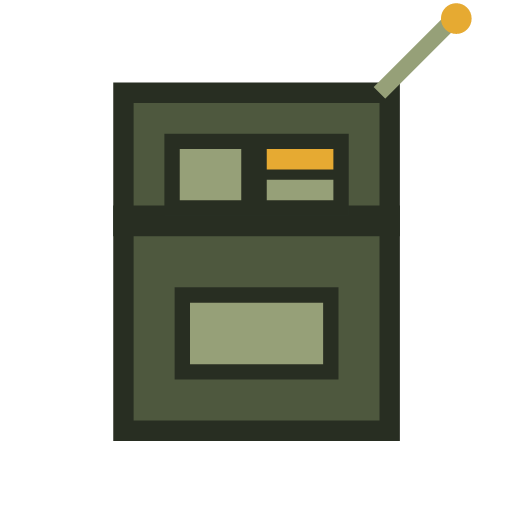
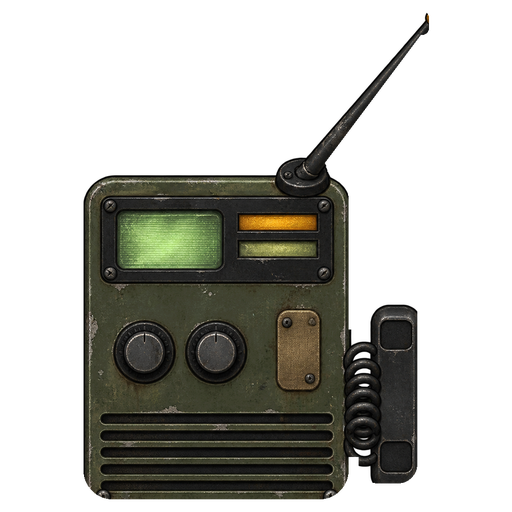
Comms radio: geometry-first art, player acquisition, armory preview
Pack (worn), icon and a radio clip variant from geometry-first ImageGen guides with retained prompts, raws and a mechanical exporter. The radio is now a player-acquirable special (advanced tier, independent and hegemony offers, placeholder weights marked), replacing the non-player declaration; lore catalog row added. Armory preview gains a radio case and a 1920x1080 contact sheet.

diff --git a/art-source/templates/comms-radio-guide.py b/art-source/templates/comms-radio-guide.py
@@ -1,0 +1,79 @@
+"""Geometry only for the forward-observer comms radio (special.comms-radio).
+
+Writes two guides under art-source/templates/. Code owns every silhouette; ImageGen reskins material
+and detail. Sprites point UP, empty space is transparent.
+
+  comms-radio-pack-guide.png   768x1000: the set as worn, seen from above on the back -- a squat
+                               rectangular pack, a buckled top flap, a coiled-cord handset clipped
+                               to its side and one whip antenna rising from the upper right corner.
+                               Drawn at the carrier layer's 0.40 x 0.52 shoulder aspect.
+  comms-radio-icon-guide.png   1024x1024: the same set as an inventory icon -- the pack standing
+                               upright, its face with a dial, two knobs and a speaker grille, the
+                               handset hanging from a coiled cord and the antenna whip.
+"""
+import math
+from pathlib import Path
+from PIL import Image, ImageDraw
+
+ROOT = Path(__file__).resolve().parents[2]
+OUT = ROOT / 'art-source/templates'
+
+
+def whip(d, base, tip, w0, w1):
+    dx, dy = tip[0] - base[0], tip[1] - base[1]
+    n = math.hypot(dx, dy)
+    px, py = -dy / n, dx / n
+    d.polygon([(base[0] + px * w0, base[1] + py * w0), (base[0] - px * w0, base[1] - py * w0),
+               (tip[0] - px * w1, tip[1] - py * w1), (tip[0] + px * w1, tip[1] + py * w1)], fill='#2a2f2c')
+    d.ellipse((tip[0] - w1 * 2, tip[1] - w1 * 2, tip[0] + w1 * 2, tip[1] + w1 * 2), fill='#c9962a')
+
+
+def pack():
+    W, H = 768, 1000
+    im = Image.new('RGBA', (W, H))
+    d = ImageDraw.Draw(im)
+    d.rounded_rectangle((100, 300, 580, 970), 60, fill='#3d4a3a')                     # pack body
+    d.rounded_rectangle((130, 330, 550, 520), 36, fill='#4f5e49')                     # top flap
+    for x in (230, 450):
+        d.rectangle((x - 22, 500, x + 22, 560), fill='#6b5a3a')                       # flap straps
+        d.rounded_rectangle((x - 30, 540, x + 30, 580), 10, fill='#2a2f2c')           # buckles
+    d.rounded_rectangle((150, 620, 530, 930), 40, fill='#46543f')                     # lower pocket
+    d.rounded_rectangle((590, 520, 660, 840), 30, fill='#2f3530')                     # handset clipped on the side
+    d.ellipse((600, 540, 650, 600), fill='#1d2220')
+    d.rectangle((100, 800, 160, 940), fill='#1d2220')                                 # strap roots
+    d.rectangle((520, 800, 580, 940), fill='#1d2220')
+    d.ellipse((440, 270, 540, 370), fill='#23282a')                                   # antenna socket
+    whip(d, (490, 320), (690, 40), 26, 11)
+    im.save(OUT / 'comms-radio-pack-guide.png')
+
+
+def icon():
+    S = 1024
+    im = Image.new('RGBA', (S, S))
+    d = ImageDraw.Draw(im)
+    d.rounded_rectangle((220, 330, 700, 930), 54, fill='#3d4a3a')                    # case
+    d.rounded_rectangle((250, 360, 670, 520), 30, fill='#2a2f2c')                    # display bezel
+    d.rounded_rectangle((276, 386, 470, 494), 14, fill='#8fa07a')                    # display
+    d.rectangle((500, 392, 640, 420), fill='#c9962a')
+    d.rectangle((500, 440, 640, 468), fill='#8fa07a')
+    for cx in (330, 460):                                                            # knobs
+        d.ellipse((cx - 56, 590, cx + 56, 702), fill='#23282a')
+        d.ellipse((cx - 34, 612, cx + 34, 680), fill='#5a6358')
+    for i in range(5):                                                               # speaker grille
+        d.rounded_rectangle((250, 760 + i * 30, 670, 774 + i * 30), 7, fill='#1d2220')
+    d.rounded_rectangle((570, 570, 650, 710), 22, fill='#6b5a3a')                    # carry strap tab
+    d.ellipse((560, 292, 660, 372), fill='#23282a')                                  # antenna socket
+    whip(d, (610, 330), (840, 40), 16, 6)
+    d.rounded_rectangle((740, 560, 830, 900), 36, fill='#2f3530')                    # handset on its cord
+    d.rounded_rectangle((756, 590, 814, 640), 16, fill='#1d2220')
+    d.rounded_rectangle((756, 800, 814, 860), 16, fill='#1d2220')
+    for i in range(6):                                                               # coiled cord
+        y = 700 + i * 28
+        d.arc((690, y - 70, 760, y + 10), 20, 340, fill='#1d2220', width=10)
+    im.save(OUT / 'comms-radio-icon-guide.png')
+
+
+if __name__ == '__main__':
+    pack()
+    icon()
+    print('wrote comms-radio-{pack,icon}-guide.png')

diff --git a/art-source/comms-radio/export.py b/art-source/comms-radio/export.py
@@ -1,0 +1,45 @@
+"""Mechanical export of the comms-radio art: raw ImageGen reskins -> mod/graphics/.
+
+Reads the retained raws in art-source/comms-radio/raw/ and the code-owned guides written by
+art-source/templates/comms-radio-guide.py. Nothing here repaints: each raw is resampled to its
+guide frame, its own alpha is kept (the generator returned a real one) and bounded by a slightly
+grown guide silhouette so a drifted edge cannot add material the geometry never had, then
+downsampled to game scale.
+
+  graphics/battle/fx/comms-radio-pack.png     the pack as worn, 256x333 = the carrier layer's 0.40 x 0.52 aspect
+  graphics/ui/armory/special-comms-radio.png  the set as an icon, cropped square about its alpha, 512 px
+"""
+from pathlib import Path
+
+from PIL import Image, ImageChops, ImageFilter
+
+ROOT = Path(__file__).resolve().parents[2]
+RAW = ROOT / 'art-source/comms-radio/raw'
+TPL = ROOT / 'art-source/templates'
+
+
+def load(name):
+    guide = Image.open(TPL / f'{name}-guide.png').convert('RGBA')
+    raw = Image.open(RAW / f'{name}.raw.png').convert('RGBA').resize(guide.size, Image.LANCZOS)
+    alpha = ImageChops.multiply(raw.getchannel('A'), guide.getchannel('A').filter(ImageFilter.MaxFilter(21)))
+    raw.putalpha(alpha)
+    return raw
+
+
+def main():
+    pack = load('comms-radio-pack').resize((256, 333), Image.LANCZOS)
+    out = ROOT / 'mod/graphics/battle/fx/comms-radio-pack.png'
+    pack.save(out)
+    print(out.relative_to(ROOT), pack.size)
+    icon = load('comms-radio-icon')
+    box = icon.getchannel('A').point(lambda v: 255 if v > 24 else 0).getbbox()
+    cx, cy = (box[0] + box[2]) // 2, (box[1] + box[3]) // 2
+    half = max(box[2] - box[0], box[3] - box[1]) // 2 + 24
+    icon = icon.crop((cx - half, cy - half, cx + half, cy + half)).resize((512, 512), Image.LANCZOS)
+    out = ROOT / 'mod/graphics/ui/armory/special-comms-radio.png'
+    icon.save(out)
+    print(out.relative_to(ROOT), icon.size)
+
+
+if __name__ == '__main__':
+    main()

diff --git a/src/test/java/com/dillon/starsectormarines/ops/battleview/ArmorySnapshotSuite.java b/src/test/java/com/dillon/starsectormarines/ops/battleview/ArmorySnapshotSuite.java
@@ -49,7 +49,7 @@ public final class ArmorySnapshotSuite implements SnapshotSuite {
         int previewWidth = ArmoryLoadoutPreviewComposer.SURFACE_WIDTH;
         int previewHeight = ArmoryLoadoutPreviewComposer.SURFACE_HEIGHT;
         BufferedImage contact = new BufferedImage(
-                previewWidth * 2, (previewHeight + 34) * 2,
+                1920, 1080,
                 BufferedImage.TYPE_INT_ARGB);
         Graphics2D graphics = contact.createGraphics();
         configure(graphics);
@@ -57,8 +57,8 @@ public final class ArmorySnapshotSuite implements SnapshotSuite {
         graphics.fillRect(0, 0, contact.getWidth(), contact.getHeight());
         graphics.setFont(new Font(Font.SANS_SERIF, Font.BOLD, 15));
         for (int index = 0; index < cases.size(); index++) {
-            int x = index % 2 * previewWidth;
-            int y = index / 2 * (previewHeight + 34);
+            int x = index % 3 * previewWidth;
+            int y = index / 3 * (previewHeight + 34);
             graphics.setColor(new Color(0xD9, 0xE8, 0xF1));
             graphics.drawString(cases.get(index).label(), x + 12, y + 22);
             graphics.drawImage(rendered.get(index), x, y + 34, null);

diff --git a/src/test/java/com/dillon/starsectormarines/ops/battleview/HeadlessArmoryPreviewRenderer.java b/src/test/java/com/dillon/starsectormarines/ops/battleview/HeadlessArmoryPreviewRenderer.java
@@ -152,7 +152,11 @@ public final class HeadlessArmoryPreviewRenderer {
                 new PreviewCase("satchel-charge", "Breachhand · Blackforge patchwork rig",
                         new FireTeamBillet("Breacher", WeaponRegistry.require(WeaponRegistry.STARTER_PRIMARY_ID),
                                 EquipmentGrade.SURPLUS, SpecialEquipmentRegistry.require(SpecialEquipmentRegistry.SATCHEL_CHARGE_ID),
-                                MarineArmorPattern.OUTLAW)));
+                                MarineArmorPattern.OUTLAW)),
+                new PreviewCase("comms-radio", "Tallyman forward-observer set · Bastion line armor",
+                        new FireTeamBillet("Observer", WeaponRegistry.require(WeaponRegistry.PULSE_RIFLE_ID),
+                                EquipmentGrade.SERVICE, SpecialEquipmentRegistry.require(SpecialEquipmentRegistry.COMMS_RADIO_ID),
+                                MarineArmorPattern.CHARCOAL)));
     }
 
     public record PreviewCase(String slug, String label, FireTeamBillet billet) {}

diff --git a/src/test/java/com/dillon/starsectormarines/ops/battleview/HeadlessArmoryPreviewRendererTest.java b/src/test/java/com/dillon/starsectormarines/ops/battleview/HeadlessArmoryPreviewRendererTest.java
@@ -35,6 +35,6 @@ class HeadlessArmoryPreviewRendererTest {
             caseHashes.add(Arrays.hashCode(firstPixels));
         }
 
-        assertEquals(4, caseHashes.size(), "each controlled loadout should render distinctly");
+        assertEquals(HeadlessArmoryPreviewRenderer.previewCases().size(), caseHashes.size(), "each controlled loadout should render distinctly");
     }
 }

diff --git a/roadmap/air/design/stories.md b/roadmap/air/design/stories.md
@@ -4,7 +4,7 @@ Status: ACTIVE
 
 Written: 2026-08-23
 
-Updated: 2026-10-14 — air support pool and comms forward observers built; fighter cover, HUD pool readout and armory acquisition open.
+Updated: 2026-10-14 — radio art and armory acquisition shipped (placeholder tier and source weights); fighter cover and HUD pool readout open.
 
 | Story | State | Outcome |
 | --- | --- | --- |
@@ -12,7 +12,7 @@ Updated: 2026-10-14 — air support pool and comms forward observers built; figh
 | `forts.md` (direction) | ACTIVE — slices 1-3 built (battery fort, aspects as dependencies, shield fort); redoubt/citadel, richer command awareness and art outstanding | Ground defences as authored forts: walled compound layouts whose aspects (guns, fire control, magazine, power, emitter, sensors) are shut down one by one, by ground forces or by overwhelming ship fire once the dome is down. |
 | `fighter-air-entities.md` | ACTIVE — the overlay class and the profile's dead tuning are gone; the package rename remains | Fighters are ordinary air entities flying ordinary sorties. Committed wings arrive on an `AirCorridor` from off the map and are dispatched by `AirCoverSystem`. |
 | Close Air Support gunship (board row; no story doc) | BUILT — live acceptance and tuning open | A committed Mudskipper is the source of a called gunship: it circles overhead of a seen cell and works it with the hull's own turret, then leaves (`air-nouns.md` Gunships; `command-powers-nouns.md`). Open: a live look at the hull scale and the turret under the game's camera and its sound; draft numbers (ring 7 cells, 40 s visit, one Heavy MG, 3 CP, 2 supplies, two activations, 25 s cooldown) were set without a balance run, and one visit clears a garrison of two squads of weak defenders in the evidence scene; no campaign writeback for a lost boat (law 9); a hostile gunship for defended worlds; ground anti-air counterplay is whatever already reaches an aircraft. Evidence: `createSnapshots -Psnapshot=close-air-support`, `sceneEvidence -Pscene=close-air-support`. |
-| Air support pool and comms observers (board row; no story doc) | BUILT — tuning and live acceptance open | Each side may hold a mission-declared regenerating pool of bombers and fighters that living comms operators direct; AI director and player power share one request, AA drives off or downs sorties, `AirStrikeCapability` exposes it to plans (`air-nouns.md` Air support pool). Open: fighter strafe/cover sorties, a HUD pool readout, player acquisition of `special.comms-radio` through the armory (currently roster-issued only), art for the radio (placeholder), tuning of every number (UNTUNED), `FortAssault` use of the capability (assault-capabilities session). Evidence: `sceneEvidence -Pscene=air-strike`, `createSnapshots -Psnapshot=air-strike`. |
+| Air support pool and comms observers (board row; no story doc) | BUILT — tuning and live acceptance open | Each side may hold a mission-declared regenerating pool of bombers and fighters that living comms operators direct; AI director and player power share one request, AA drives off or downs sorties, `AirStrikeCapability` exposes it to plans (`air-nouns.md` Air support pool). Open: fighter strafe/cover sorties, a HUD pool readout, tuning of every number, including the radio's placeholder armory tier and source weights (UNTUNED), `FortAssault` use of the capability (assault-capabilities session). Evidence: `sceneEvidence -Pscene=air-strike`, `createSnapshots -Psnapshot=air-strike`. |
 | `air-manual-acceptance.md` | PLANNED | Verify centre-of-gravity rotation, hardpoint placement and per-mount sight, and thrust-weighted engine effects together in a live battle. |
 | `warship-on-station.md` | PLANNED | A Paragon hovers over the battle and sweeps its laser lance across compounds, razing walls, roofs and units, friendly fire included. |
 | `tender-ship.md` | ACTIVE — slice 1, the swarm choreography, pilot control and AI by stance built | The vanilla Shepherd as a mobile drone and construction ship: defence drones anchored to the hull and builder drones that work a site until a turret stands. Point defence by the drones' mining lasers is built. Player control through the direct-control seam is built. The wing launches, escorts, recalls and retreats as real flights. AI by stance is built: an unpiloted ATTACK or DEFEND tender lays its own sites. Open: the revetment build option, the story hand-out of a campaign Shepherd (a stated dependency; it will give the player one if they lack one), live acceptance. |

diff --git a/roadmap/factions/design/equipment-lore-catalog.md b/roadmap/factions/design/equipment-lore-catalog.md
@@ -4,7 +4,7 @@ Status: ACTIVE — canonical provenance and faction-fit reference for shipped Ma
 
 Written: 2026-08-26
 
-Updated: 2026-10-13 — heavy shells declare power-suit infantry class while advanced regular equipment remains distinct.
+Updated: 2026-10-14 — added the Tallyman forward-observer set (player-acquirable comms radio).
 cannon, and Pioneer utility rocket cradle as lower-performance mech components
 whose circulation does not make them faction defaults.
 
@@ -51,6 +51,7 @@ delivery behavior, protection tradeoff, or special activation.
 | `special.point-defence-emplacement` | **PDE-1 Palisade interceptor pod** — a Gilead voidwright shipping-lane point-defence cluster cut down onto a folding infantry tripod, from the same guild tradition as the Breachhand. | Church and Knight convoy custodians who already run lane defences; League and Independent contractors who buy the pattern under licence; recovered pirate and Pather sets running on whatever cells they can scavenge. | It is denial equipment and nothing else: it engages warheads, never bodies, and it is not an anti-infantry turret, a sentry gun, an observation post, or a squad member. Its magazine, its cell, and its own structure all run out, so it degrades a missile threat rather than removing one. Hegemony and Tri-Tachyon field their own hardpoint point defence and need no renamed infantry equivalent without a distinct mechanic. |
 | `special.field-revetment` | **RVT-3 Rampart field revetment** — a Hegemony combat-engineering pattern of folding mesh baskets, liner and stakes, whose specification is old enough and simple enough that every arsenal builds its own. | Hegemony issue; ordinary market stock across the League, the Diktat, Independent contractors, and Church and Knight garrisons; pirate and Pather sets recovered from wherever a line was dug in. | It is cover, not a wall: a soldier steps over it, shoots over it, and sees over it, and it can never be used to close a route, seal a doorway, or cut a map in two. It protects one boundary and gives nothing at all against fire from the other three sides. It is field kit rather than a controlled pattern, so it circulates through markets and salvage rather than through licences, and no faction needs a renamed equivalent. |
 | `special.field-mortar` | **MTR-1 Anvil field mortar** — a Hegemony two-piece infantry mortar (smoothbore tube, baseplate, bipod) of old Domain pattern, copied wherever an army wants fire it can drop behind a wall. | Hegemony issue; Independent and Lion's Guard contractors under licence; recovered sets in pirate and Pather hands. | It is crew-served indirect fire and nothing more: a dead zone inside its minimum range, a small magazine, a slow rate, no sight of its own (it fires on what its section has seen) and no protection for a gunner who is rushed. Lose the gunner and the tube is lost. It is not a mech gun, not a turret and not a rocket launcher. |
+| `special.comms-radio` | **FOR-2 Tallyman forward-observer set** — a pack radio and handset of old Hegemony fire-direction pattern, common wherever an army keeps aircraft it wants aimed. | Hegemony issue; Independent and Lion's Guard contractors under licence; elite squads of every power by roster; recovered sets in pirate and Pather hands. | It directs an air pool onto ground its carrier can see and nothing more: it needs a live, unsuppressed carrier with sight of the target, a long call time and a cooldown, and a strike over a strong defence meets anti-air. It is not a sensor, not a communications relay and not an air wing of its own. |
 | `special.vibro-blade` | **VBL-1 Quillon vibro-blade** — a rugged Hegemony boarding pattern whose specification spread through coalition arsenals. | Hegemony issue; copied League and Diktat patterns; broad Independent, Pather, and pirate circulation; rare Tri-Tachyon monofilament tools of the same role. | Vibro and monofilament are one edge role; a monofilament label buys presentation and provenance, never extra reach or a hidden bonus. It is anti-personnel reaction equipment and cannot be used on machinery, walls, or emplacements. |
 
 ## Mech weapon components

diff --git a/art-source/geometry-first-imagegen.md b/art-source/geometry-first-imagegen.md
@@ -85,6 +85,7 @@ Keep source inputs out of `mod/`; only exported art and its runtime catalog ship
 | Ground-defence structures | `art-source/templates/defence-structures-guide.py`; static 3x3 plinths, a rotating gun house with barrel recoil layer, a spinning emitter ring and a tint-by-holder core, pivots at canvas centre; exporter splits and registers mechanically (Codex CLI: `art-source/defences/generate.sh`) | `templates/defence-structures-*.py`, `templates/fortress-battery-*-guide.png`, `templates/shield-generator-*-guide.png`, `defences/*.prompt.txt`, `defences/raw/` | `turrets`, `fortress-battery`, `shield-dome` |
 | Fort earthworks | `art-source/templates/fort-earthworks-guide.py`; sixteen trench sections addressed by open-arm mask (channel 30%-70% at every edge so neighbours join), eight thick sandbag runs and corners, concertina wire and a hedgehog on 192px full-cell frames (Codex CLI: `art-source/tilesets/generate-fort-earthworks.sh`); the wire is then reskinned bolder (`templates/fort-wire-guide.py`, `tilesets/generate-fort-wire.sh`) and `composite-fort-wire.py` lays it over `fort-wire-sources/fort-earthworks.v1.png` | `templates/fort-earthworks-guide.*`, `templates/fort-wire-guide.*`, `tilesets/fort-earthworks.*`, `tilesets/fort-wire.*` | `battery-fort-map` |
 | Fort buildings | `art-source/templates/fort-buildings-guide.py`; per aspect, four panels (intact roof, damaged, destroyed wreck, lights overlay) on the building's interior floor rectangle at one pixel scale, a parts sheet (spinning radar and fans, 3x3 interior bases) and a gatehouse sheet; exporter crops mechanically at 64 px/cell (Codex CLI: `art-source/fort-buildings/generate.sh <asset>`) | `templates/fort-buildings-*-guide.png`, `fort-buildings/prompts/`, `fort-buildings/raw/`, `fort-buildings/export.py` | `battery-fort-map` |
+| Comms radio | `art-source/templates/comms-radio-guide.py`; a worn top-down pack (aspect of the carrier layer's 0.40 x 0.52 shoulders) with flap, buckles, clipped handset and one whip antenna, and an upright icon with display, dials, grille and corded handset (Codex CLI: `art-source/comms-radio/generate.sh <asset>`, mechanical export by `export.py`) | `templates/comms-radio-*-guide.png`, `comms-radio/*.prompt.txt`, `comms-radio/raw/`, `comms-radio/export.py` | `armory`, `layers` |
 | Ship openings and decks | `ShipInteriorMaterialTemplate`; full-cell cardinal openings and seamless resin samples | `templates/ship-interior-materials.png`, `tilesets/ship-interior-materials.*` | `ship-materials` |
 
[1 lines of base64/hex data omitted]

diff --git a/roadmap/air/design/air-nouns.md b/roadmap/air/design/air-nouns.md
@@ -4,7 +4,7 @@ Status: ACTIVE
 
 Written: 2026-08-23
 
-Updated: 2026-10-14 — Air support pool: comms operators direct a side's regenerating bombers and fighters; fort AA makes a strike costly.
+Updated: 2026-10-14 — Air support pool: comms operators direct a side's regenerating bombers and fighters; fort AA makes a strike costly; the radio is player-acquirable.
 
 Earlier 2026-09-01 — an aircraft on its stand is a unit and only a unit: the
 3x3 of navigation grid a parked hull used to stamp around itself is gone, along
@@ -2151,7 +2151,7 @@ and already committed rounds can still cross its edges.
 
 A side may hold a **pool** of bombers and fighters that ground forces direct. The mission declares each kind's stock, cap and regeneration time as it declares a mech-drop allowance; a legacy mission declares none and the machinery is inert.
 
-- **Who calls.** Only a living comms operator (a marine carrying `special.comms-radio`, the forward-observer kit) that is not suppressed and has a clear line to the point, or to a hostile the side has sighted, may task an airframe. The AI's director and the player's Air Strike power both go through one request, so they cannot disagree.
+- **Who calls.** Only a living comms operator (a marine carrying `special.comms-radio`, the forward-observer kit, which the player may also acquire through the armory) that is not suppressed and has a clear line to the point, or to a hostile the side has sighted, may task an airframe. The AI's director and the player's Air Strike power both go through one request, so they cannot disagree.
 - **What flies.** A bomber runs the corridor sortie in with a stick of bombs, a fighter strafes. An airframe is busy for its sortie. One shot down is lost until it regenerates; one driven off (hull below a share) or aborted flies home and returns to the pool.
 - **Anti-air.** The area drain over a turret cluster and real AA positions both hurt a pass, and a believed-defended point is judged by `AaRisk` from the guns the side has actually sighted: a strike is declined when the expected loss is more than an airframe. A fort's massed guns are left to the ground force; a lone nest is bombed out. An unsighted gun is a surprise.
 - **Reading.** The capability profile reads availability and risk from `AirStrikeCapability`, so a plan may name an air strike as an asset; roles are matched in `phased-assault.md`.
